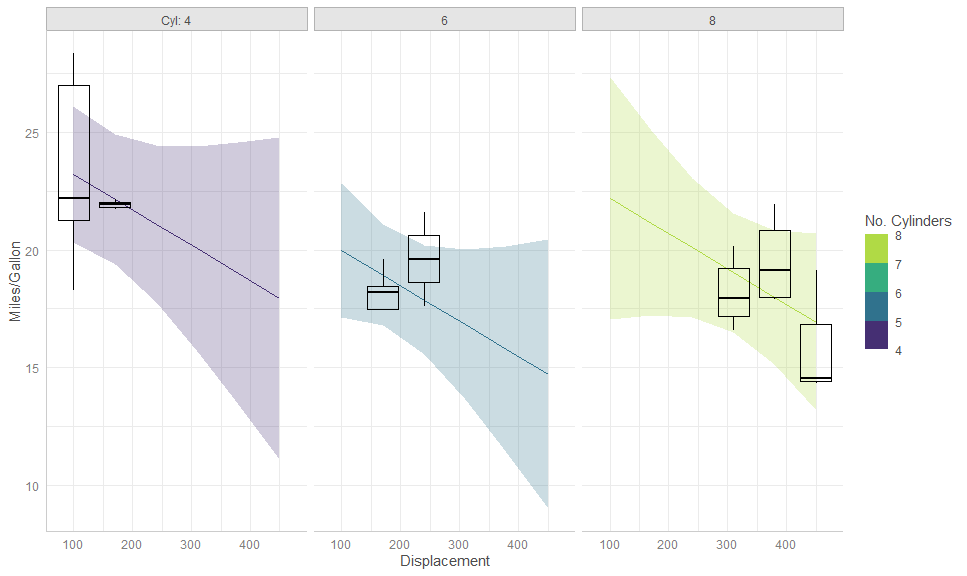
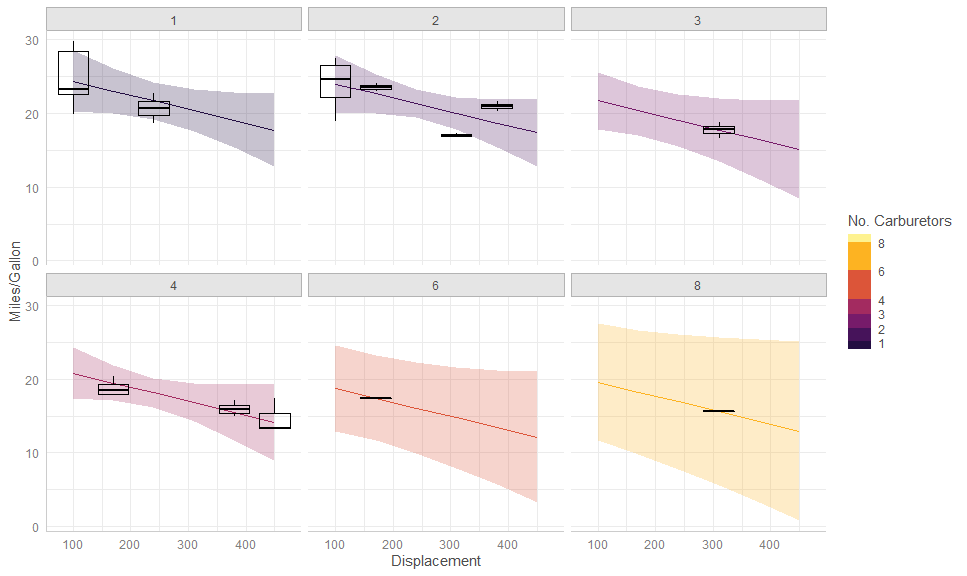
even more ggplot scales

diff --git a/README.md b/README.md
@@ -29,13 +29,13 @@ remotes::install_github("mattansb/ggggeffects")
 Fit a model from the `mtcars` data:
 
 ``` r
-fit <- lm(mpg ~ factor(cyl) + am + disp + hp, mtcars)
+fit <- lm(mpg ~ factor(carb) + am + disp + hp, mtcars)
 ```
 
 ### Full `ggplot2` Customizability
 
 ``` r
-gge <- ggpredict(fit, terms = c("cyl", "am"))
+gge <- ggpredict(fit, terms = c("carb", "am"))
 
 # Compare
 plot(gge)
@@ -57,11 +57,13 @@ however `ggggeffects` is fully customisable, as would be expected (also
 note that the `am` is retained as a numeric variable):
 
 ``` r
+am_labeller <- as_labeller(c("0" = "Automatic", "1" = "Manual"))
+
 autoplot(
   gge, 
   aes(color = factor(am), fill = after_scale(color)),
   cols = vars(am), 
-  labeller = labeller(am = as_labeller(c("0" = "Automatic", "1" = "Manual")))
+  labeller = labeller(am = am_labeller)
 ) +
   # Expected + CI
   geom_CI_bar(type = "linerange", color = "black", position = position_dodge(0.3)) +
@@ -151,25 +153,26 @@ p +
 These can also be used with other stats:
 
 ``` r
-gge <- ggpredict(fit, terms = c("disp [100:500, by = 70]", "cyl"))
+gge <- ggpredict(fit, terms = c("disp [100:500, by = 70]", "carb"))
 
 autoplot(gge, 
-         aes(color = as.numeric(as.character(cyl)),
-             fill = as.numeric(as.character(cyl))),
-         cols = vars(cyl),
-         labeller = labeller(cyl = as_labeller(c("4" = "Cyl: 4", "6" = 6, "8" = 8)))) + 
+         aes(color = as.numeric(levels(carb))[carb],
+             fill = as.numeric(levels(carb))[carb])) + 
+  facet_wrap(vars(carb)) + 
   # Expected + CI
   geom_CI_ribbon() + 
   geom_expected_line() +
   # Boxplot of partial residuals
-  layer_fit_data(aes(group = interaction(disp, cyl)), 
+  layer_fit_data(aes(group = interaction(disp, carb)), 
                  residuals = TRUE,
                  fill = NA, color = "black",
                  geom = "boxplot", stat = "boxplot") + # <<<<
   # Scales and theme
-  scale_color_binned("No. Cylinders", aesthetics = c("color", "fill"),
-                     type = "viridis",
-                     guide = guide_colorsteps(show.limits = TRUE)) +
+  scale_color_binned("No. Carburetors", aesthetics = c("color", "fill"),
+                     breaks = unique(mtcars$carb),
+                     limits = c(0.5, 8.5),
+                     type = "viridis", option = "B", begin = 0.1,
+                     guide = guide_colorsteps(even.steps = FALSE)) +
   labs(y = "Miles/Gallon", x = "Displacement") + 
   theme_ggeffects()
 ```
